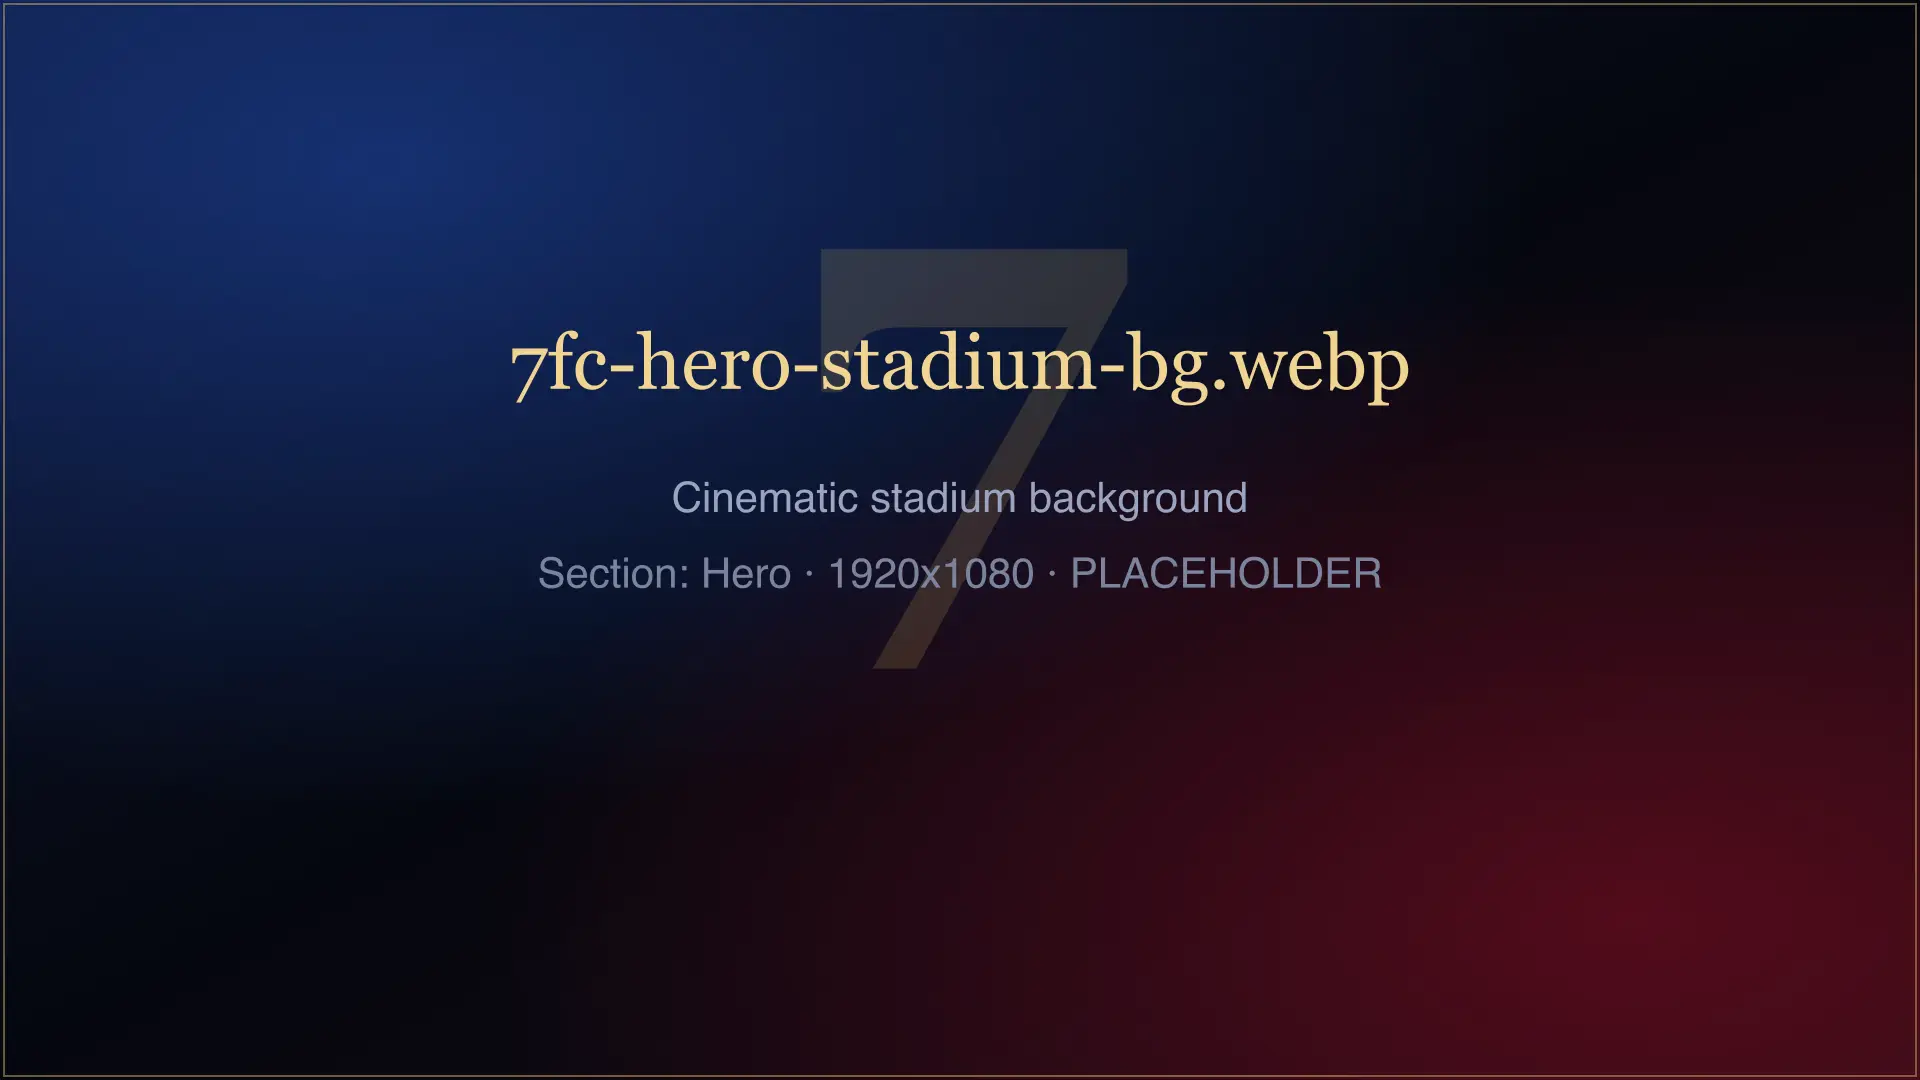
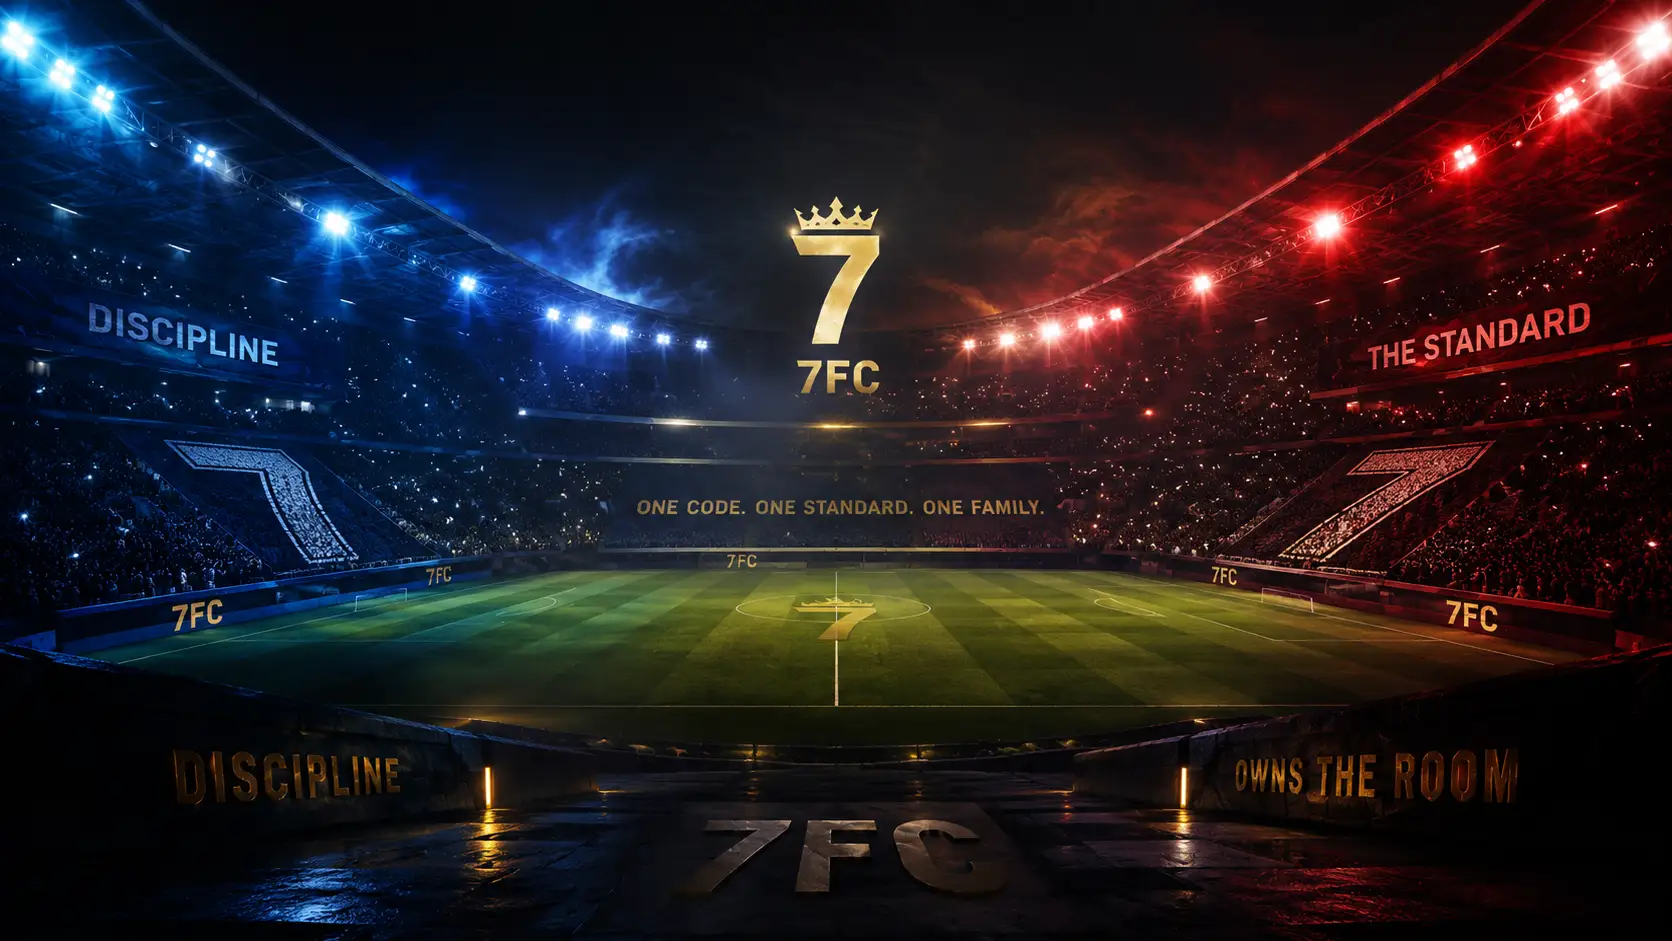
Replace hero placeholders with final player and stadium images
Rework the Hero component to layer the real stadium background and
bottom-anchored player image with gradient overlays for text
readability, removing the placeholder label markup. Mark both assets
as final in the image manifest.

diff --git a/components/public/TopSections.tsx b/components/public/TopSections.tsx
@@ -70,45 +70,40 @@ export function Nav() {
 export function Hero() {
   return (
     <section id="top" className="relative overflow-hidden text-center">
-      <div className="absolute inset-0 atmosphere" aria-hidden />
       <div
-        className="absolute inset-0 opacity-40 bg-cover bg-center"
+        className="absolute inset-0 bg-cover bg-center"
         style={{ backgroundImage: "url(/images/7fc-hero-stadium-bg.webp)" }}
         aria-hidden
       />
-      <div className="absolute inset-0 bg-gradient-to-b from-night/40 via-night/60 to-night" aria-hidden />
+      <div className="absolute inset-0 atmosphere opacity-60" aria-hidden />
+      <div
+        className="absolute inset-0 bg-gradient-to-b from-night/70 via-night/50 to-night"
+        aria-hidden
+      />
+      <div
+        className="absolute inset-0 bg-gradient-to-t from-night via-night/20 to-transparent"
+        aria-hidden
+      />
       <div className="light-sweep" aria-hidden />
       <Particles />
-      <div className="relative mx-auto max-w-6xl px-4 pt-16 pb-20 md:pt-32 md:pb-36 flex flex-col items-center">
+      <div className="relative mx-auto max-w-6xl px-4 pt-16 pb-0 md:pt-28 flex flex-col items-center">
         <p className="text-xs md:text-sm tracking-[0.4em] uppercase text-electric mb-4">
           Discipline. Standards. Greatness.
         </p>
-        <h1 className="font-display font-black gold-text text-6xl md:text-9xl leading-none">
+        <h1 className="font-display font-black gold-text text-6xl md:text-9xl leading-none drop-shadow-[0_4px_24px_rgba(0,0,0,0.8)]">
           7FC
         </h1>
         <p className="font-display tracking-[0.5em] text-gold-2 text-sm md:text-xl mt-3 uppercase">
           Seven FC
         </p>
-        <h2 className="font-display text-xl md:text-4xl text-white mt-7 tracking-wide">
+        <h2 className="font-display text-xl md:text-4xl text-white mt-7 tracking-wide drop-shadow-[0_2px_12px_rgba(0,0,0,0.8)]">
           The CR7 Legacy. Forever 7.
         </h2>
         <p className="mt-5 max-w-2xl text-sm md:text-lg text-gray-300">
           A global fan tribute to discipline, longevity, records, pressure,
           reinvention, and the standard of the number 7.
         </p>
-        <PlaceholderImg
-          src="/images/7fc-hero-player.webp"
-          alt="Back view of a generic number 7 football player under stadium lights"
-          className="mt-10 w-44 md:w-64 rounded-lg opacity-90"
-          label="Hero player placeholder"
-        />
-        <PlaceholderImg
-          src="/images/7fc-signature-mark.webp"
-          alt="Abstract gold signature-style decorative mark"
-          className="mt-4 w-32 md:w-52 opacity-80"
-          label="Signature mark placeholder"
-        />
-        <div className="mt-10 flex flex-col sm:flex-row items-center justify-center gap-4">
+        <div className="mt-8 flex flex-col sm:flex-row items-center justify-center gap-4 relative z-10">
           <a
             href="#wall"
             className="cta-glow bg-crimson text-white font-bold tracking-widest uppercase text-sm md:text-base px-9 py-3.5 rounded"
@@ -121,6 +116,18 @@ export function Hero() {
           >
             See the Global 7 Wall
           </Link>
+        </div>
+        <div className="relative mt-8 md:mt-6 w-full flex justify-center">
+          <div
+            className="absolute bottom-0 left-1/2 -translate-x-1/2 w-[80%] h-16 md:h-24 rounded-full bg-gold/10 blur-3xl"
+            aria-hidden
+          />
+          {/* eslint-disable-next-line @next/next/no-img-element */}
+          <img
+            src="/images/7fc-hero-player.webp"
+            alt="Back view of a generic number 7 football player under stadium lights"
+            className="relative w-52 sm:w-64 md:w-80 lg:w-[22rem] max-h-[52vh] md:max-h-[60vh] object-contain object-bottom drop-shadow-[0_20px_40px_rgba(0,0,0,0.6)]"
+          />
         </div>
       </div>
     </section>

diff --git a/public/images/IMAGE_MANIFEST.md b/public/images/IMAGE_MANIFEST.md
@@ -12,8 +12,8 @@ Legend — Launch: required for launch · State: `placeholder` until replaced wi
 | 1 | 7fc-logo-main.webp | /public/images/7fc-logo-main.webp | 320x180 | Header / Footer | 7FC Seven FC logo placeholder | 7FC Seven FC logo | Yes | placeholder |
 | 2 | 7fc-og-preview.webp | /public/images/7fc-og-preview.webp | 1200x630 | SEO / Open Graph | OG preview image for social sharing | 7FC — The CR7 Legacy. Forever 7. Unofficial fan tribute. | Yes | placeholder |
 | 3 | 7fc-favicon.webp | /public/images/7fc-favicon.webp | 512x512 | Favicon | WebP favicon source | 7FC favicon | Yes | placeholder |
-| 4 | 7fc-hero-stadium-bg.webp | /public/images/7fc-hero-stadium-bg.webp | 1920x1080 | Hero | Cinematic red, blue, and gold stadium background | Cinematic stadium under red, blue, and gold lights | Yes | placeholder |
-| 5 | 7fc-hero-player.webp | /public/images/7fc-hero-player.webp | 900x1400 | Hero | Generic back-view number 7 football player (not Ronaldo, no official kit) | Back view of a generic number 7 football player under stadium lights | Yes | placeholder |
+| 4 | 7fc-hero-stadium-bg.webp | /public/images/7fc-hero-stadium-bg.webp | 1920x1080 | Hero | Cinematic red, blue, and gold stadium background | Cinematic stadium under red, blue, and gold lights | Yes | final |
+| 5 | 7fc-hero-player.webp | /public/images/7fc-hero-player.webp | 900x1400 | Hero | Generic back-view number 7 football player (not Ronaldo, no official kit) | Back view of a generic number 7 football player under stadium lights | Yes | final |
 | 6 | 7fc-signature-mark.webp | /public/images/7fc-signature-mark.webp | 600x240 | Hero | Abstract gold signature-style decorative mark (not a real signature) | Abstract gold signature-style decorative mark | Yes | placeholder |
 | 7 | 7fc-built-different-player.webp | /public/images/7fc-built-different-player.webp | 1000x700 | Built Different | Cinematic generic football player side profile, no recognizable likeness | Cinematic side profile of a generic football player | Yes | placeholder |
 | 8 | 7fc-quote-banner-player.webp | /public/images/7fc-quote-banner-player.webp | 1920x500 | Quote / Mindset Banner | Tunnel or stadium player silhouette with red/blue/gold lighting | Player silhouette in a stadium tunnel under dramatic lights | Yes | placeholder |